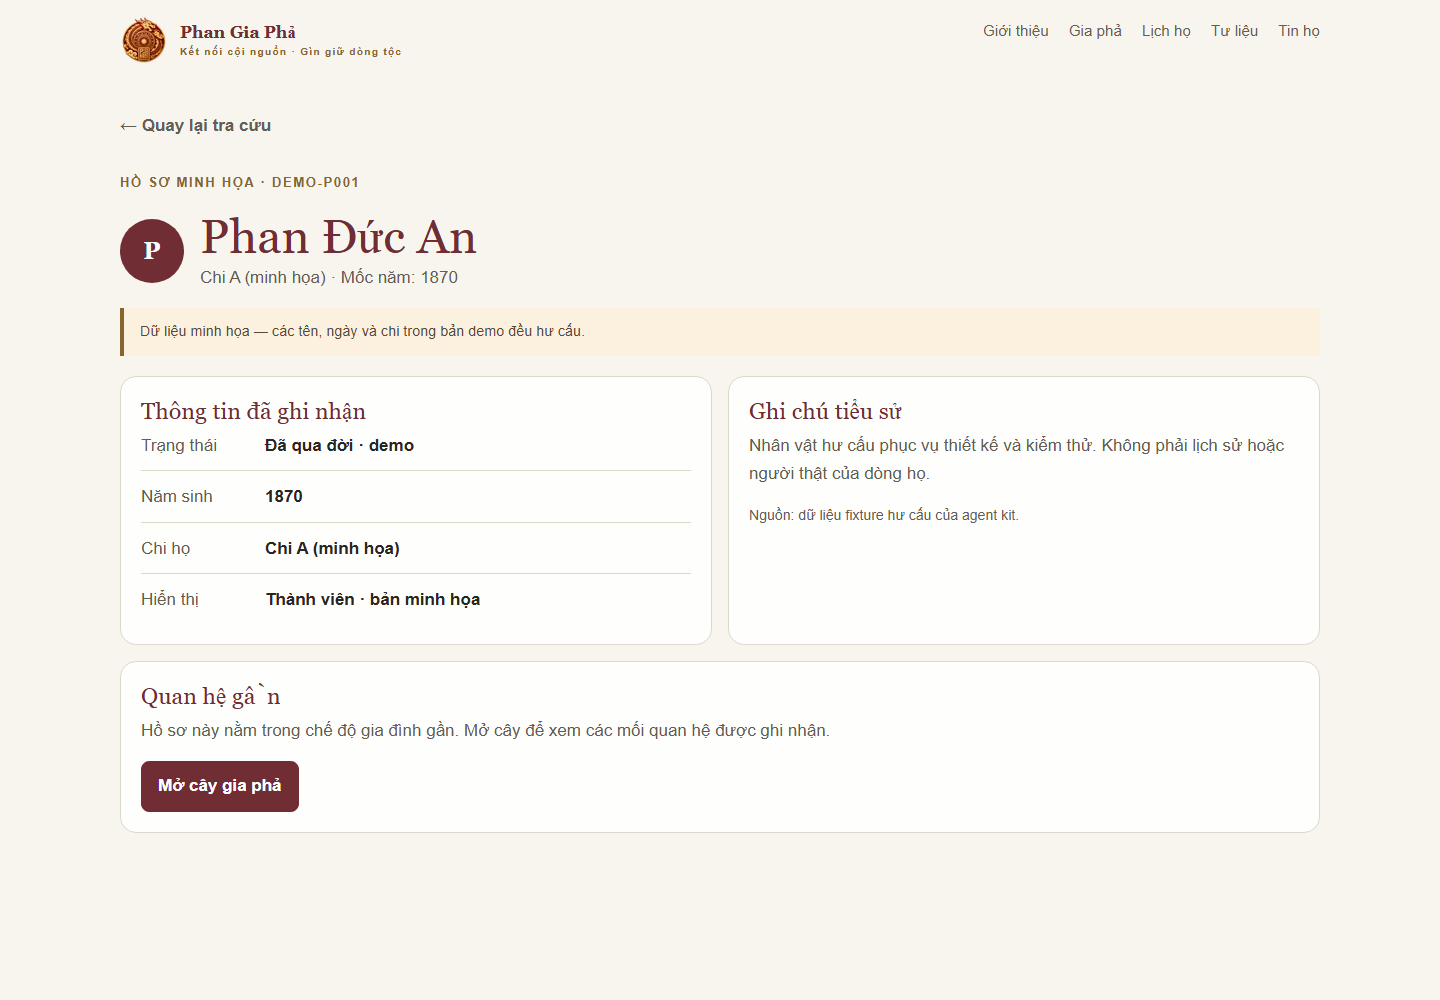
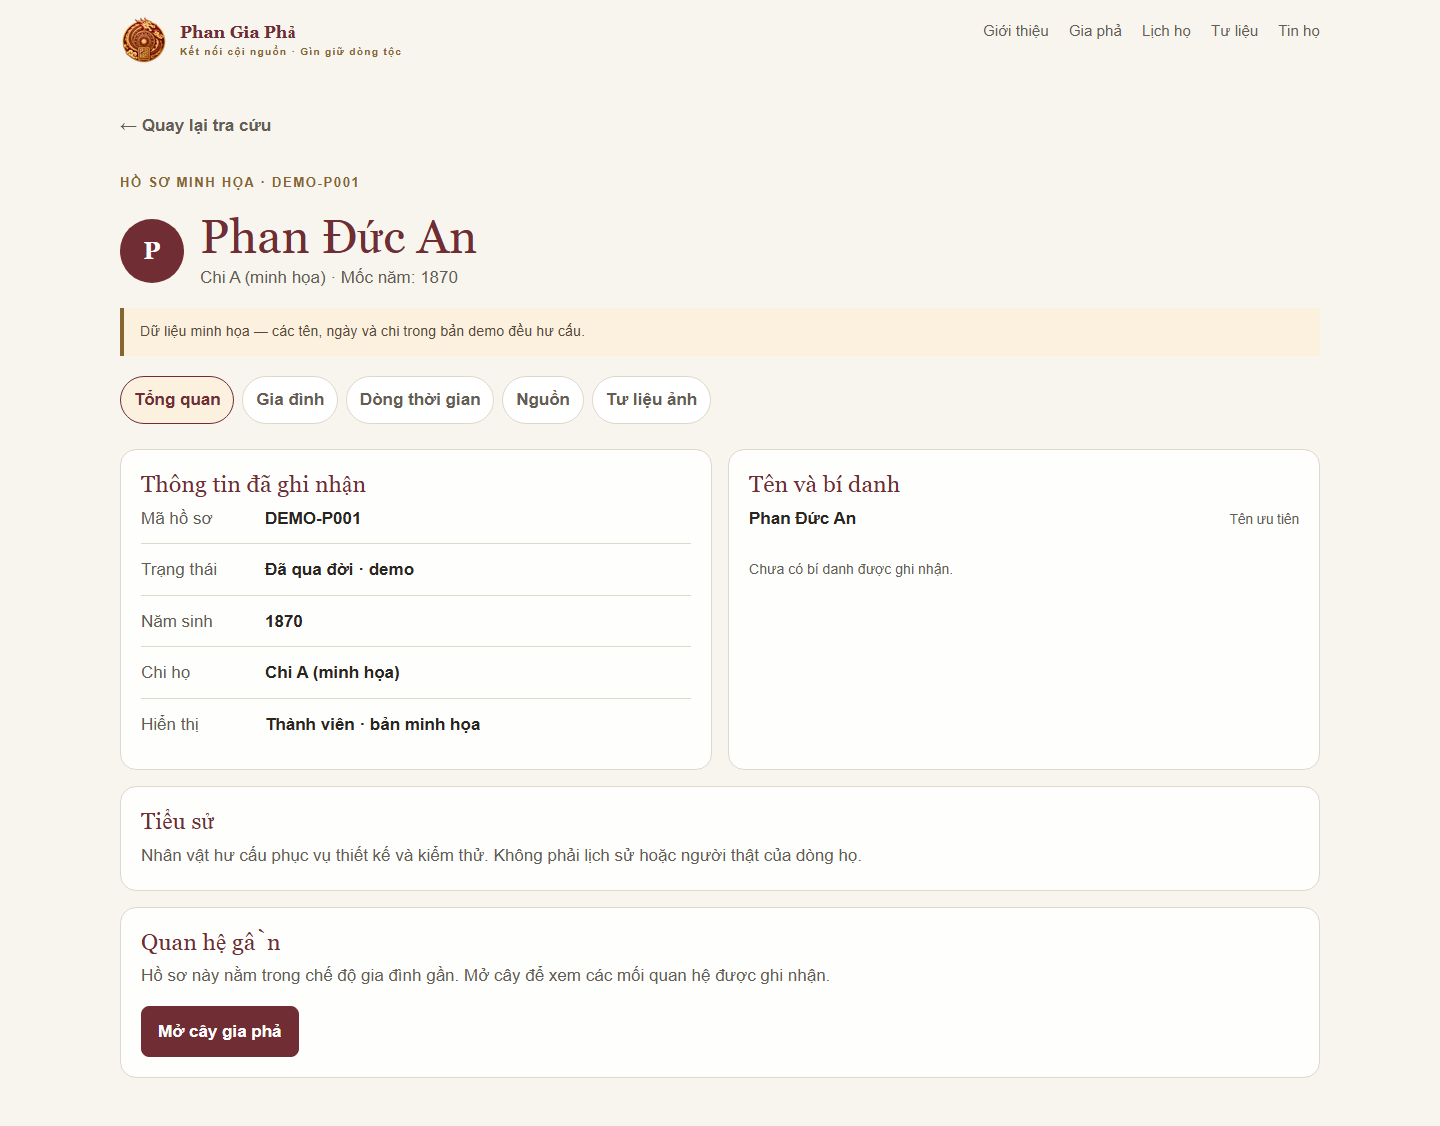
feat: add layered person profile

diff --git a/apps/web/src/modules/m03/person-profile.tsx b/apps/web/src/modules/m03/person-profile.tsx
@@ -1,0 +1,133 @@
+"use client";
+
+import Link from "next/link";
+import { useState } from "react";
+
+import type { DemoFamilyFocus, DemoPersonRecord, DemoSource } from "../../lib/demo-data";
+import { branchName } from "../../lib/demo-data";
+
+type ProfileState = "ready" | "loading" | "error" | "restricted";
+
+type PersonProfileProps = {
+  person: DemoPersonRecord;
+  family: DemoFamilyFocus | null;
+  sources: DemoSource[];
+  state?: ProfileState;
+};
+
+const tabs = [
+  { id: "overview", label: "Tổng quan" },
+  { id: "family", label: "Gia đình" },
+  { id: "timeline", label: "Dòng thời gian" },
+  { id: "sources", label: "Nguồn" },
+  { id: "media", label: "Tư liệu ảnh" }
+] as const;
+
+type TabId = (typeof tabs)[number]["id"];
+
+function EmptyPanel({ message }: { message: string }) {
+  return <div className="card empty-state"><p>{message}</p></div>;
+}
+
+function StatePanel({ state }: { state: Exclude<ProfileState, "ready"> }) {
+  if (state === "loading") {
+    return <div className="card profile-state-panel" aria-busy="true"><span className="skeleton-line" /><span className="skeleton-line skeleton-line-short" /><p className="muted">Đang tải hồ sơ…</p></div>;
+  }
+  if (state === "restricted") {
+    return <div className="restricted-card profile-state-panel"><strong>Hồ sơ được giới hạn</strong><p>Thông tin này chỉ hiển thị khi phiên có quyền phù hợp.</p><Link className="button-secondary" href="/dang-nhap">Đăng nhập</Link></div>;
+  }
+  return <div className="restricted-card profile-state-panel"><strong>Không tải được hồ sơ</strong><p>Hãy thử lại để tải projection đã được kiểm tra quyền.</p><Link className="button-secondary" href="./">Thử lại</Link></div>;
+}
+
+function OverviewPanel({ person }: { person: DemoPersonRecord }) {
+  const aliases = person.names.filter((name) => !name.isPreferred);
+  const yearLabel = person.birth?.year ? String(person.birth.year) : "Chưa rõ";
+  return (
+    <div className="profile-grid">
+      <section className="card">
+        <h2>Thông tin đã ghi nhận</h2>
+        <dl className="detail-list">
+          <div><dt>Mã hồ sơ</dt><dd>{person.externalId}</dd></div>
+          <div><dt>Trạng thái</dt><dd>{person.lifeStatus === "deceased" ? "Đã qua đời · demo" : "Chưa xác định · demo"}</dd></div>
+          <div><dt>Năm sinh</dt><dd>{yearLabel}</dd></div>
+          <div><dt>Chi họ</dt><dd>{branchName(person.branchId)}</dd></div>
+          <div><dt>Hiển thị</dt><dd>{person.visibility === "members" ? "Thành viên · bản minh họa" : "Công khai · bản minh họa"}</dd></div>
+        </dl>
+      </section>
+      <section className="card">
+        <h2>Tên và bí danh</h2>
+        <ul className="profile-name-list">
+          {person.names.map((name, index) => <li key={name.kind + "-" + name.name + "-" + index}><span>{name.name}</span><small>{name.isPreferred ? "Tên ưu tiên" : "Bí danh"}</small></li>)}
+        </ul>
+        {aliases.length === 0 ? <p className="source-note">Chưa có bí danh được ghi nhận.</p> : null}
+      </section>
+      <section className="card profile-span">
+        <h2>Tiểu sử</h2>
+        <p>{person.biography || "Chưa có nội dung tiểu sử được duyệt."}</p>
+      </section>
+    </div>
+  );
+}
+
+function FamilyPanel({ family }: { family: DemoFamilyFocus | null }) {
+  if (!family || (family.parents.length === 0 && family.children.length === 0)) {
+    return <EmptyPanel message="Chưa có quan hệ gia đình được ghi nhận trong bản minh họa này." />;
+  }
+  return (
+    <div className="profile-grid">
+      <section className="card">
+        <h2>Cha mẹ</h2>
+        {family.parents.length === 0 ? <p className="muted">Chưa có dữ liệu.</p> : <div className="family-list-items">{family.parents.map((parent) => <Link className="person-node" href={"/nguoi/" + parent.id} key={parent.id}><span className="monogram" aria-hidden="true">{parent.displayName.slice(0, 1)}</span><span className="person-node-copy"><strong>{parent.displayName}</strong><small>{parent.code}</small></span></Link>)}</div>}
+      </section>
+      <section className="card">
+        <h2>Con cháu</h2>
+        {family.children.length === 0 ? <p className="muted">Chưa có dữ liệu.</p> : <div className="family-list-items">{family.children.map((child) => <Link className="person-node" href={"/nguoi/" + child.id} key={child.id}><span className="monogram" aria-hidden="true">{child.displayName.slice(0, 1)}</span><span className="person-node-copy"><strong>{child.displayName}</strong><small>{child.code}</small></span></Link>)}</div>}
+      </section>
+    </div>
+  );
+}
+
+function TimelinePanel({ person }: { person: DemoPersonRecord }) {
+  if (!person.birth) return <EmptyPanel message="Chưa có mốc thời gian nào được ghi nhận." />;
+  return (
+    <section className="timeline profile-timeline" aria-label="Dòng thời gian hồ sơ">
+      <article className="timeline-item">
+        <div className="timeline-marker" aria-hidden="true" />
+        <div className="card">
+          <h2>Sinh năm {person.birth.year ?? "chưa rõ"}</h2>
+          <p>{person.birth.originalText} · độ chính xác: {person.birth.precision}</p>
+          <span className="status-label">Bản minh họa · cần đối chiếu nguồn</span>
+        </div>
+      </article>
+    </section>
+  );
+}
+
+function SourcesPanel({ sources }: { sources: DemoSource[] }) {
+  if (sources.length === 0) return <EmptyPanel message="Chưa có nguồn được liên kết với hồ sơ." />;
+  return <div className="source-list">{sources.map((source) => <article className="card source-card" key={source.id}><span className="source-kind">{source.kind}</span><h2>{source.title}</h2><p>{source.provenance}</p><span className="status-label">Nguồn minh họa</span></article>)}</div>;
+}
+
+function MediaPanel() {
+  return <div className="restricted-card profile-state-panel"><strong>Chưa có tư liệu ảnh</strong><p>Ảnh và media chỉ xuất hiện sau khi được tải lên, quét an toàn và cấp quyền.</p></div>;
+}
+
+export function PersonProfile({ person, family, sources, state = "ready" }: PersonProfileProps) {
+  const [activeTab, setActiveTab] = useState<TabId>("overview");
+  if (state !== "ready") return <StatePanel state={state} />;
+
+  return (
+    <section className="profile-tabs-shell" aria-label="Các lớp hồ sơ">
+      <div className="profile-tabs" role="tablist" aria-label="Hồ sơ người">
+        {tabs.map((tab) => <button className={activeTab === tab.id ? "profile-tab profile-tab-active" : "profile-tab"} key={tab.id} type="button" role="tab" aria-selected={activeTab === tab.id} aria-controls={"profile-panel-" + tab.id} onClick={() => setActiveTab(tab.id)}>{tab.label}</button>)}
+      </div>
+      <div id={"profile-panel-" + activeTab} role="tabpanel" tabIndex={0} className="profile-tab-panel">
+        {activeTab === "overview" ? <OverviewPanel person={person} /> : null}
+        {activeTab === "family" ? <FamilyPanel family={family} /> : null}
+        {activeTab === "timeline" ? <TimelinePanel person={person} /> : null}
+        {activeTab === "sources" ? <SourcesPanel sources={sources} /> : null}
+        {activeTab === "media" ? <MediaPanel /> : null}
+      </div>
+    </section>
+  );
+}

diff --git a/apps/web/src/app/nguoi/[id]/page.tsx b/apps/web/src/app/nguoi/[id]/page.tsx
@@ -1,7 +1,8 @@
 import Link from "next/link";
 import { notFound } from "next/navigation";
 import { DemoNotice, SiteShell } from "../../_components/site-chrome";
-import { branchName, findDemoPerson, getFamilyFocus } from "../../../lib/demo-data";
+import { branchName, demoSources, findDemoPerson, getFamilyFocus } from "../../../lib/demo-data";
+import { PersonProfile } from "../../../modules/m03/person-profile";
 
 type PersonPageProps = { params: Promise<{ id: string }> };
 
@@ -11,6 +12,7 @@ export default async function PersonPage({ params }: PersonPageProps) {
   if (!person) notFound();
   const family = getFamilyFocus(id);
   const yearLabel = person.birth?.year ? String(person.birth.year) : "Chưa rõ";
+  const sources = demoSources.filter((source) => person.sourceIds.includes(source.id));
   return (
     <SiteShell active="search">
       <main id="main-content" className="container page">
@@ -18,11 +20,8 @@ export default async function PersonPage({ params }: PersonPageProps) {
         <p className="eyebrow">Hồ sơ minh họa · {person.externalId}</p>
         <div className="profile-heading"><span className="profile-monogram" aria-hidden="true">{person.displayName.slice(0, 1)}</span><div><h1>{person.displayName}</h1><p className="page-lede">{branchName(person.branchId)} · Mốc năm: {yearLabel}</p></div></div>
         <DemoNotice />
-        <div className="profile-grid">
-          <section className="card"><h2>Thông tin đã ghi nhận</h2><dl className="detail-list"><div><dt>Trạng thái</dt><dd>{person.lifeStatus === "deceased" ? "Đã qua đời · demo" : "Chưa xác định · demo"}</dd></div><div><dt>Năm sinh</dt><dd>{yearLabel}</dd></div><div><dt>Chi họ</dt><dd>{branchName(person.branchId)}</dd></div><div><dt>Hiển thị</dt><dd>Thành viên · bản minh họa</dd></div></dl></section>
-          <section className="card"><h2>Ghi chú tiểu sử</h2><p>{person.biography}</p><p className="source-note">Nguồn: dữ liệu fixture hư cấu của agent kit.</p></section>
-        </div>
-        {family ? <section className="card profile-family"><h2>Quan hệ gần</h2><p>Hồ sơ này nằm trong chế độ gia đình gần. Mở cây để xem các mối quan hệ được ghi nhận.</p><Link className="button-primary" href="/gia-pha">Mở cây gia phả</Link></section> : null}
+        <PersonProfile person={person} family={family} sources={sources} />
+        <section className="card profile-family"><h2>Quan hệ gần</h2><p>Hồ sơ này nằm trong chế độ gia đình gần. Mở cây để xem các mối quan hệ được ghi nhận.</p><Link className="button-primary" href="/gia-pha">Mở cây gia phả</Link></section>
       </main>
     </SiteShell>
   );

diff --git a/apps/web/src/app/globals.css b/apps/web/src/app/globals.css
@@ -132,6 +132,21 @@ button, a, input, select { min-height: 44px; }
 .source-note { margin-top: 1rem !important; font-size: .88rem; }
 .profile-family { margin-top: 1rem; }
 .profile-family .button-primary { margin-top: 1rem; }
+.profile-tabs-shell { margin-top: 1.25rem; }
+.profile-tabs { display: flex; gap: .5rem; overflow-x: auto; padding-bottom: .35rem; scrollbar-width: thin; }
+.profile-tab { flex: 0 0 auto; min-height: 44px; padding: .55rem .8rem; border: 1px solid var(--border); border-radius: 999px; background: var(--surface); color: var(--ink-muted); font-weight: 700; cursor: pointer; white-space: nowrap; }
+.profile-tab:hover, .profile-tab-active { border-color: var(--brand); color: var(--brand); background: #FBF1DE; }
+.profile-tab-panel { margin-top: .75rem; }
+.profile-name-list { display: grid; gap: .65rem; margin: 0; padding: 0; list-style: none; }
+.profile-name-list li { display: flex; flex-wrap: wrap; align-items: baseline; justify-content: space-between; gap: .5rem; padding-bottom: .55rem; border-bottom: 1px solid var(--border); }
+.profile-name-list li:last-child { border-bottom: 0; }
+.profile-name-list span { font-weight: 700; overflow-wrap: anywhere; }
+.profile-name-list small { color: var(--ink-muted); }
+.profile-span { grid-column: 1 / -1; }
+.profile-state-panel { display: grid; gap: .55rem; }
+.profile-state-panel .button-secondary { width: fit-content; }
+.skeleton-line { display: block; width: 70%; height: 1rem; border-radius: .35rem; background: var(--muted); }
+.skeleton-line-short { width: 42%; }
 .site-footer { display: flex; justify-content: space-between; gap: 1rem; padding-block: 1.5rem 2rem; color: var(--ink-muted); font-size: .82rem; }
 .admin-shell { border-top: 6px solid var(--brand); }
 .admin-topbar { display: flex; align-items: center; justify-content: space-between; gap: 1rem; padding-block: 1rem; }

diff --git a/tests/e2e/p1-demo.spec.ts b/tests/e2e/p1-demo.spec.ts
@@ -58,6 +58,18 @@ test("admin preview keeps restricted state explicit", async ({ page }, testInfo)
   await capture(page, "admin", testInfo.project.name);
 });
 
+test("person profile exposes layered tabs and mobile-safe empty states", async ({ page }) => {
+  await page.goto("/nguoi/" + demoPersonId);
+  const tabs = page.getByRole("tab");
+  await expect(tabs).toHaveCount(5);
+  await tabs.nth(1).click();
+  await expect(page.getByRole("heading", { name: "Cha mẹ" })).toBeVisible();
+  await tabs.nth(2).click();
+  await expect(page.getByRole("heading", { name: /Sinh năm/ })).toBeVisible();
+  await tabs.nth(4).click();
+  await expect(page.getByText("Chưa có tư liệu ảnh", { exact: true })).toBeVisible();
+});
+
 test("keyboard and basic accessibility contracts remain available", async ({ page }) => {
   await page.goto("/");
   await page.keyboard.press("Tab");

diff --git a/apps/web/src/lib/demo-data.ts b/apps/web/src/lib/demo-data.ts
@@ -17,7 +17,14 @@ export type DemoFamilyFocus = {
   links: Array<{ id: string; kind: string; status: string }>;
 };
 
-type DemoPersonRecord = (typeof fixture.persons)[number];
+export type DemoPersonRecord = (typeof fixture.persons)[number];
+
+export type DemoSource = {
+  id: string;
+  title: string;
+  kind: string;
+  provenance: string;
+};
 
 function normalizeLifeStatus(value: string): DemoPersonSummary["lifeStatus"] {
   if (value === "living" || value === "deceased") return value;
@@ -55,7 +62,7 @@ export const demoBranches = fixture.branches.map((branch) => ({
 
 export const demoPeople = summaries;
 
-export const demoSources = fixture.sources.map((source) => ({
+export const demoSources: DemoSource[] = fixture.sources.map((source) => ({
   id: source.id,
   title: source.title,
   kind: source.kind,

diff --git a/state/TEST_REPORT.md b/state/TEST_REPORT.md
@@ -46,5 +46,6 @@ Application status: FOUNDATION_P1_P2_LOCAL_EXECUTED; product acceptance remains 
 2026-09-27 JOBS-01 evidence: local Supabase migration 0009 applied before worker runtime tests. 'pnpm test:jobs' exit 0: authenticated role cannot claim; service_role claim succeeds, failed event retries with attempts increment, publish is idempotent. 'pnpm --filter @phan/worker test' exit 0 with 5/5 tests; worker typecheck exit 0. Remote CI and credentialed runtime adapter are NOT_RUN; no production deploy.
 2026-09-27 M03-01 evidence: migration 0010 applied to local Supabase. 'pnpm test:m03' exit 0 for stable UUID/code, duplicate display names, repeated aliases, public/restricted projection and raw private table denial. Full 'pnpm test' exit 0 with contracts 4/4, domain 8/8 and worker 5/5; typecheck, lint (one existing PostCSS warning), test:db, test:auth and local build exit 0. Full mobile visual/a11y and real-device evidence remain NOT_RUN.
 2026-09-27 M03-02 evidence: migration 0011 applied to local Supabase. 'pnpm test:m03:dates' exit 0 for year-only JSON round-trip without month/day, originalText preservation, deceased public projection, unknown/living redaction and member access. Full test exit 0 with contracts 4/4, domain 10/10 and worker 5/5; typecheck, lint (one existing PostCSS warning), test:db, test:m03, test:auth, build and verify exit 0. Mobile visual/a11y and real-device evidence remain NOT_RUN.
+2026-09-27 M03-03 evidence: 'pnpm test:e2e' exit 0 with 21/21 tests across desktop Chromium, Pixel 5 and 320px. New profile test verified five tabs, family panel, timeline panel and media empty state; existing keyboard/target smoke also passed. DB/API aggregate profile, axe/manual and real-device evidence remain NOT_RUN.
 
 Mỗi test record: testId, requirementId, env, commit, command, startedAt, exitCode, actualResult, status, log/screenshot path, reviewer. Log không chứa PII/secret. Static preview QA là nhóm riêng trong PACKAGE_VALIDATION.

diff --git a/state/TASKS.md b/state/TASKS.md
@@ -24,7 +24,7 @@ Canonical: `TASKS.json`. P0 đang có scaffold ứng dụng và foundation code;
 | M02-04 | P6 | Xuất bản có duyệt | M02-03 |  |
 | M03-01 | P3 | Canonical identity | CORE-02 | IN_PROGRESS — migration 0010, duplicate-name/alias/restricted projection test PASS local; contract/domain/API typecheck and build PASS; full mobile visual/a11y NOT_RUN |
 | M03-02 | P3 | Dates và life status | M03-01 | IN_PROGRESS — migration 0011 person_facts, year-only/originalText/privacy test PASS local; regression/typecheck/build PASS; mobile visual/a11y NOT_RUN |
-| M03-03 | P3 | Hồ sơ đa lớp | M03-02 |  |
+| M03-03 | P3 | Hồ sơ đa lớp | M03-02 | IN_PROGRESS — mobile tabs overview/family/timeline/sources/media; E2E 21/21 desktop/Pixel5/320 PASS; DB/API aggregate, axe/manual/real-device NOT_RUN |
 | M03-04 | P3 | Person khác account | M03-03 |  |
 | M03-05 | P3 | Sửa có version | M03-04 |  |
 | M03-06 | P3 | Xóa có tác động | M03-05 |  |

diff --git a/state/BLOCKERS.md b/state/BLOCKERS.md
@@ -1,5 +1,7 @@
 # Blockers
 
+| M03-03 | DB/API aggregate profile projection, axe/manual audit và real-device evidence chưa chạy | M03-03 final acceptance | Demo profile layers and E2E 21/21 PASS on desktop/Pixel5/320; tiếp tục API projection/media permission work không cần owner action |
+
 | M03-02 | Full mobile visual/a11y and real-device evidence chưa chạy | M03-02 final UI acceptance | Date precision, originalText persistence, unknown/living redaction and member access PASS local; tiếp tục M03 profile work không cần owner action |
 
 | M03-01 | Full mobile visual/a11y and real-device evidence chưa chạy | M03-01 final UI acceptance | Canonical identity contract, DB authorization, restricted projection and local build/test đã PASS; tiếp tục các M03 date/profile tasks không cần owner action |
